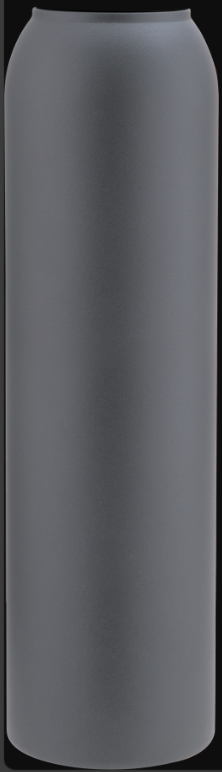
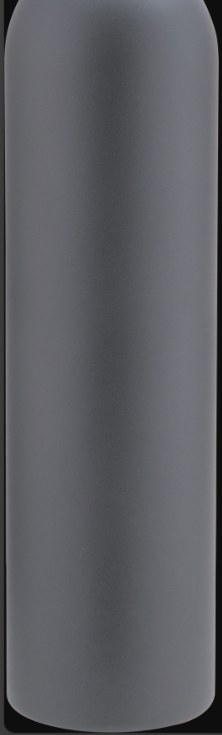
updated code

Changed region(s): [[0.0, 0.0, 1.0, 0.2095], [0.9189, 0.9578, 0.9459, 0.9878], [0.0, 0.1497, 0.027, 0.1796]]

diff --git a/src/Components/Home.js b/src/Components/Home.js
@@ -1,7 +1,7 @@
 import React, { useState } from "react"; 
 import { motion, useScroll } from "framer-motion"; 
-import topImage from "../assets/originalcap.png"; 
-import bottomImage from "../assets/bottle down.png"; 
+import topImage from "../assets/cap2.png"; 
+import bottomImage from "../assets/down2.png"; 
 import newBottomImage from "../assets/full bottle.png"; // Replace with your new image 
 import leftImage from "../assets/newbottle.png"; 
 import rightImage from "../assets/newbottle.png"; 
@@ -58,24 +58,14 @@ function Home() {
       <div className="flex flex-col items-center justify-center text-center mt-[5%]">
         {/* Large Circle */}
         <motion.div 
-          className="relative w-96 h-96 border-2 border-blue-300 rounded-full flex flex-col items-center justify-center p-5"
-          initial={{ scale: 0.5, backgroundColor: "#ffffff" }}
-          animate={{ scale: 0.9, backgroundColor: "#ffffff" }}
-          transition={{ duration: 3, ease: "easeInOut" }}
-        >
-          {/* Animated Top Image */}
-          {!showNewImage && (
-            <motion.img 
-            src={topImage} 
-            alt="Top Bottle" 
-            className="absolute w-24"
-            initial={{ y: 0, opacity: 1 }} // Start from initial position
-            animate={{ y: [0, -300, 420], opacity: [1, 1, 1] }} // Moves up first, then slides back down
-            transition={{ duration: 5, times: [0, 0.5, 1], ease: "easeInOut" }} // Smooth movement
-          />
+  className="relative w-96 h-96 border-2 border-blue-300 rounded-full flex flex-col items-center justify-center p-5"
+  initial={{ scale: 0.9, backgroundColor: "#ffffff", opacity: 0 }} // Start hidden
+  animate={{ scale: 0.9, backgroundColor: "#ffffff", opacity: 1 }} // Expand to final size
+  transition={{ duration: 1.5, delay: 1, ease: "easeInOut" }} // Wait 1s, then grow in 1.5s
+>
+  {/* Circle animation */}
+{/* </motion.div> */}
           
-          
-          )}
 
           <h2 className="text-3xl font-bold leading-tight">
             The Ultimate Companion for Hydration
@@ -86,15 +76,29 @@ function Home() {
           </p>
         </motion.div>
 
+        {/* Animated Top Image */}
+        {!showNewImage && (
+            <motion.img 
+            src={topImage} 
+            alt="Top Bottle" 
+            className="absolute w-24"
+            initial={{ y: -500, opacity: 1 }} // Start from initial position
+            animate={{ y: [-320, -600, 100], opacity: [0.9, 1, 1] }} // Moves up first, then slides back down
+            transition={{ duration: 5, delay: 1.5, times: [0, 0.5, 1], ease: "easeInOut" }} // Smooth movement
+          />
+          
+          
+          )}
+
         {/* Bottom Image */}
         {!showNewImage ? (
           <motion.img 
             src={bottomImage} 
             alt="Bottom Bottle" 
             className="mt-10 w-40"
-            initial={{ y: -100, opacity: 0 }}
+            initial={{ y: -200, opacity: 1 }}
             animate={{ y: 180, opacity: 1 }}
-            transition={{ duration: 5, ease: "easeOut" }}
+            transition={{ duration: 5,delay:1.5, ease: "easeOut" }}
             onAnimationComplete={() => setShowNewImage(true)}
           />
         ) : (
